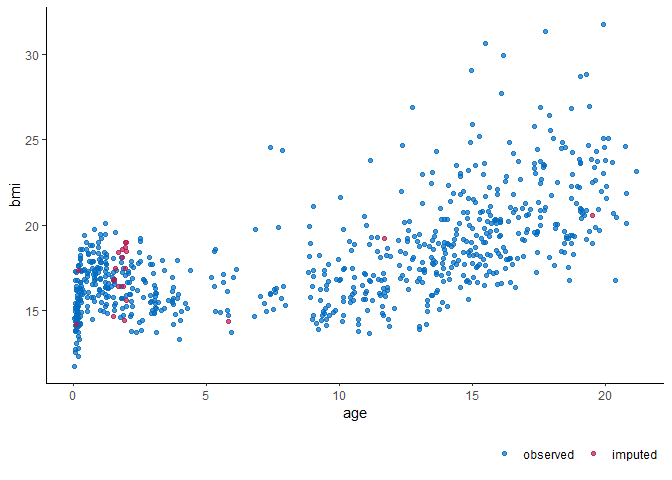
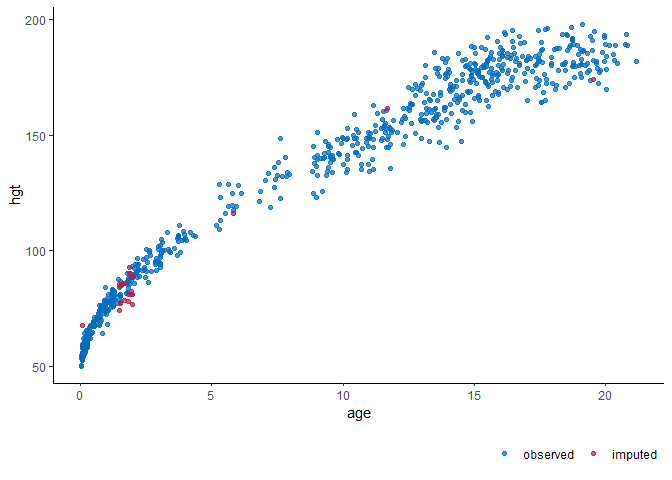
remove BMI from readme example

diff --git a/README.md b/README.md
@@ -50,7 +50,8 @@ Inspect the missing data in an incomplete dataset and subsequently
 evaluate the imputed data points against observed data. See the [Get
 started](https://amices.org/ggmice/articles/ggmice.html) vignette for an
 overview of all functionalities. Example data from
-[`mice`](https://amices.org/mice/reference/boys).
+[`mice`](https://amices.org/mice/reference/boys), showing height (in cm)
+by age (in years).
 
 ``` r
 # load packages
@@ -60,7 +61,7 @@ library(ggmice)
 # load some data
 dat <- boys
 # visualize the incomplete data
-ggmice(dat, aes(age, bmi)) + geom_point()
+ggmice(dat, aes(age, hgt)) + geom_point()
 ```
 
 <img src="man/figures/README-example-1.png" width="100%" />
@@ -69,7 +70,7 @@ ggmice(dat, aes(age, bmi)) + geom_point()
 # impute the incomplete data
 imp <- mice(dat, m = 1, seed = 1, printFlag = FALSE)
 # visualize the imputed data
-ggmice(imp, aes(age, bmi)) + geom_point() 
+ggmice(imp, aes(age, hgt)) + geom_point() 
 ```
 
 <img src="man/figures/README-example-2.png" width="100%" />
